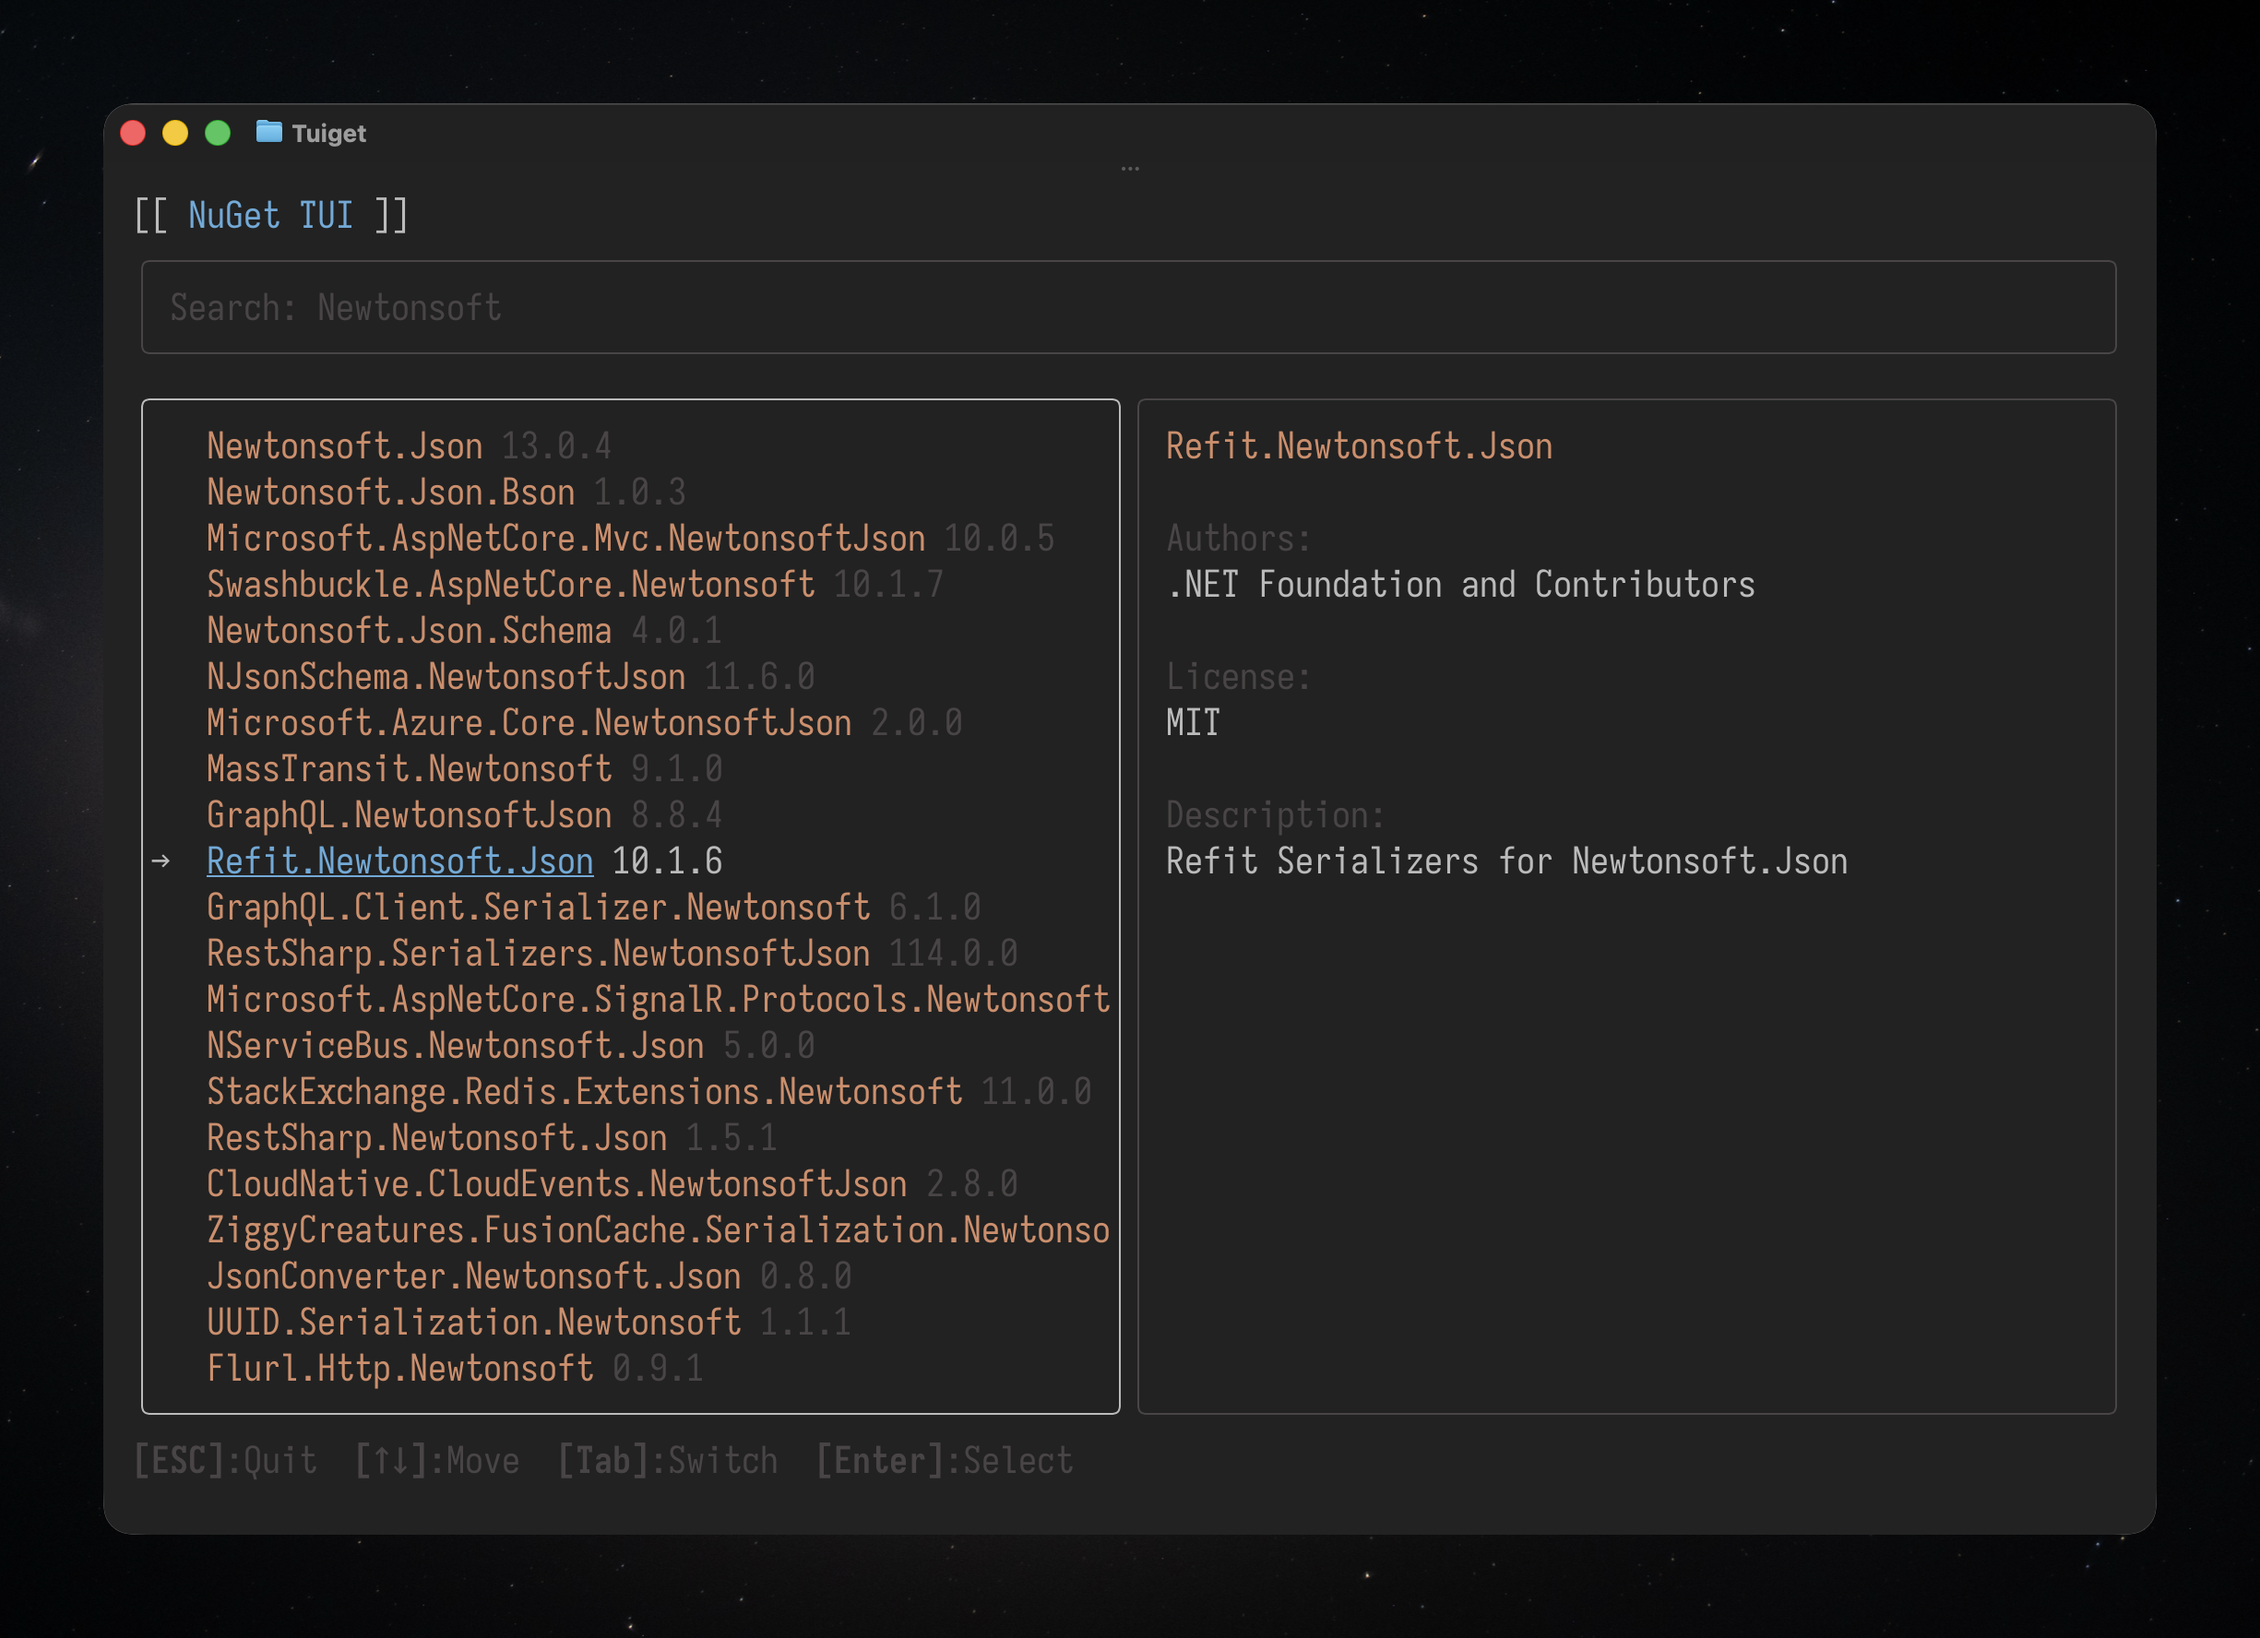
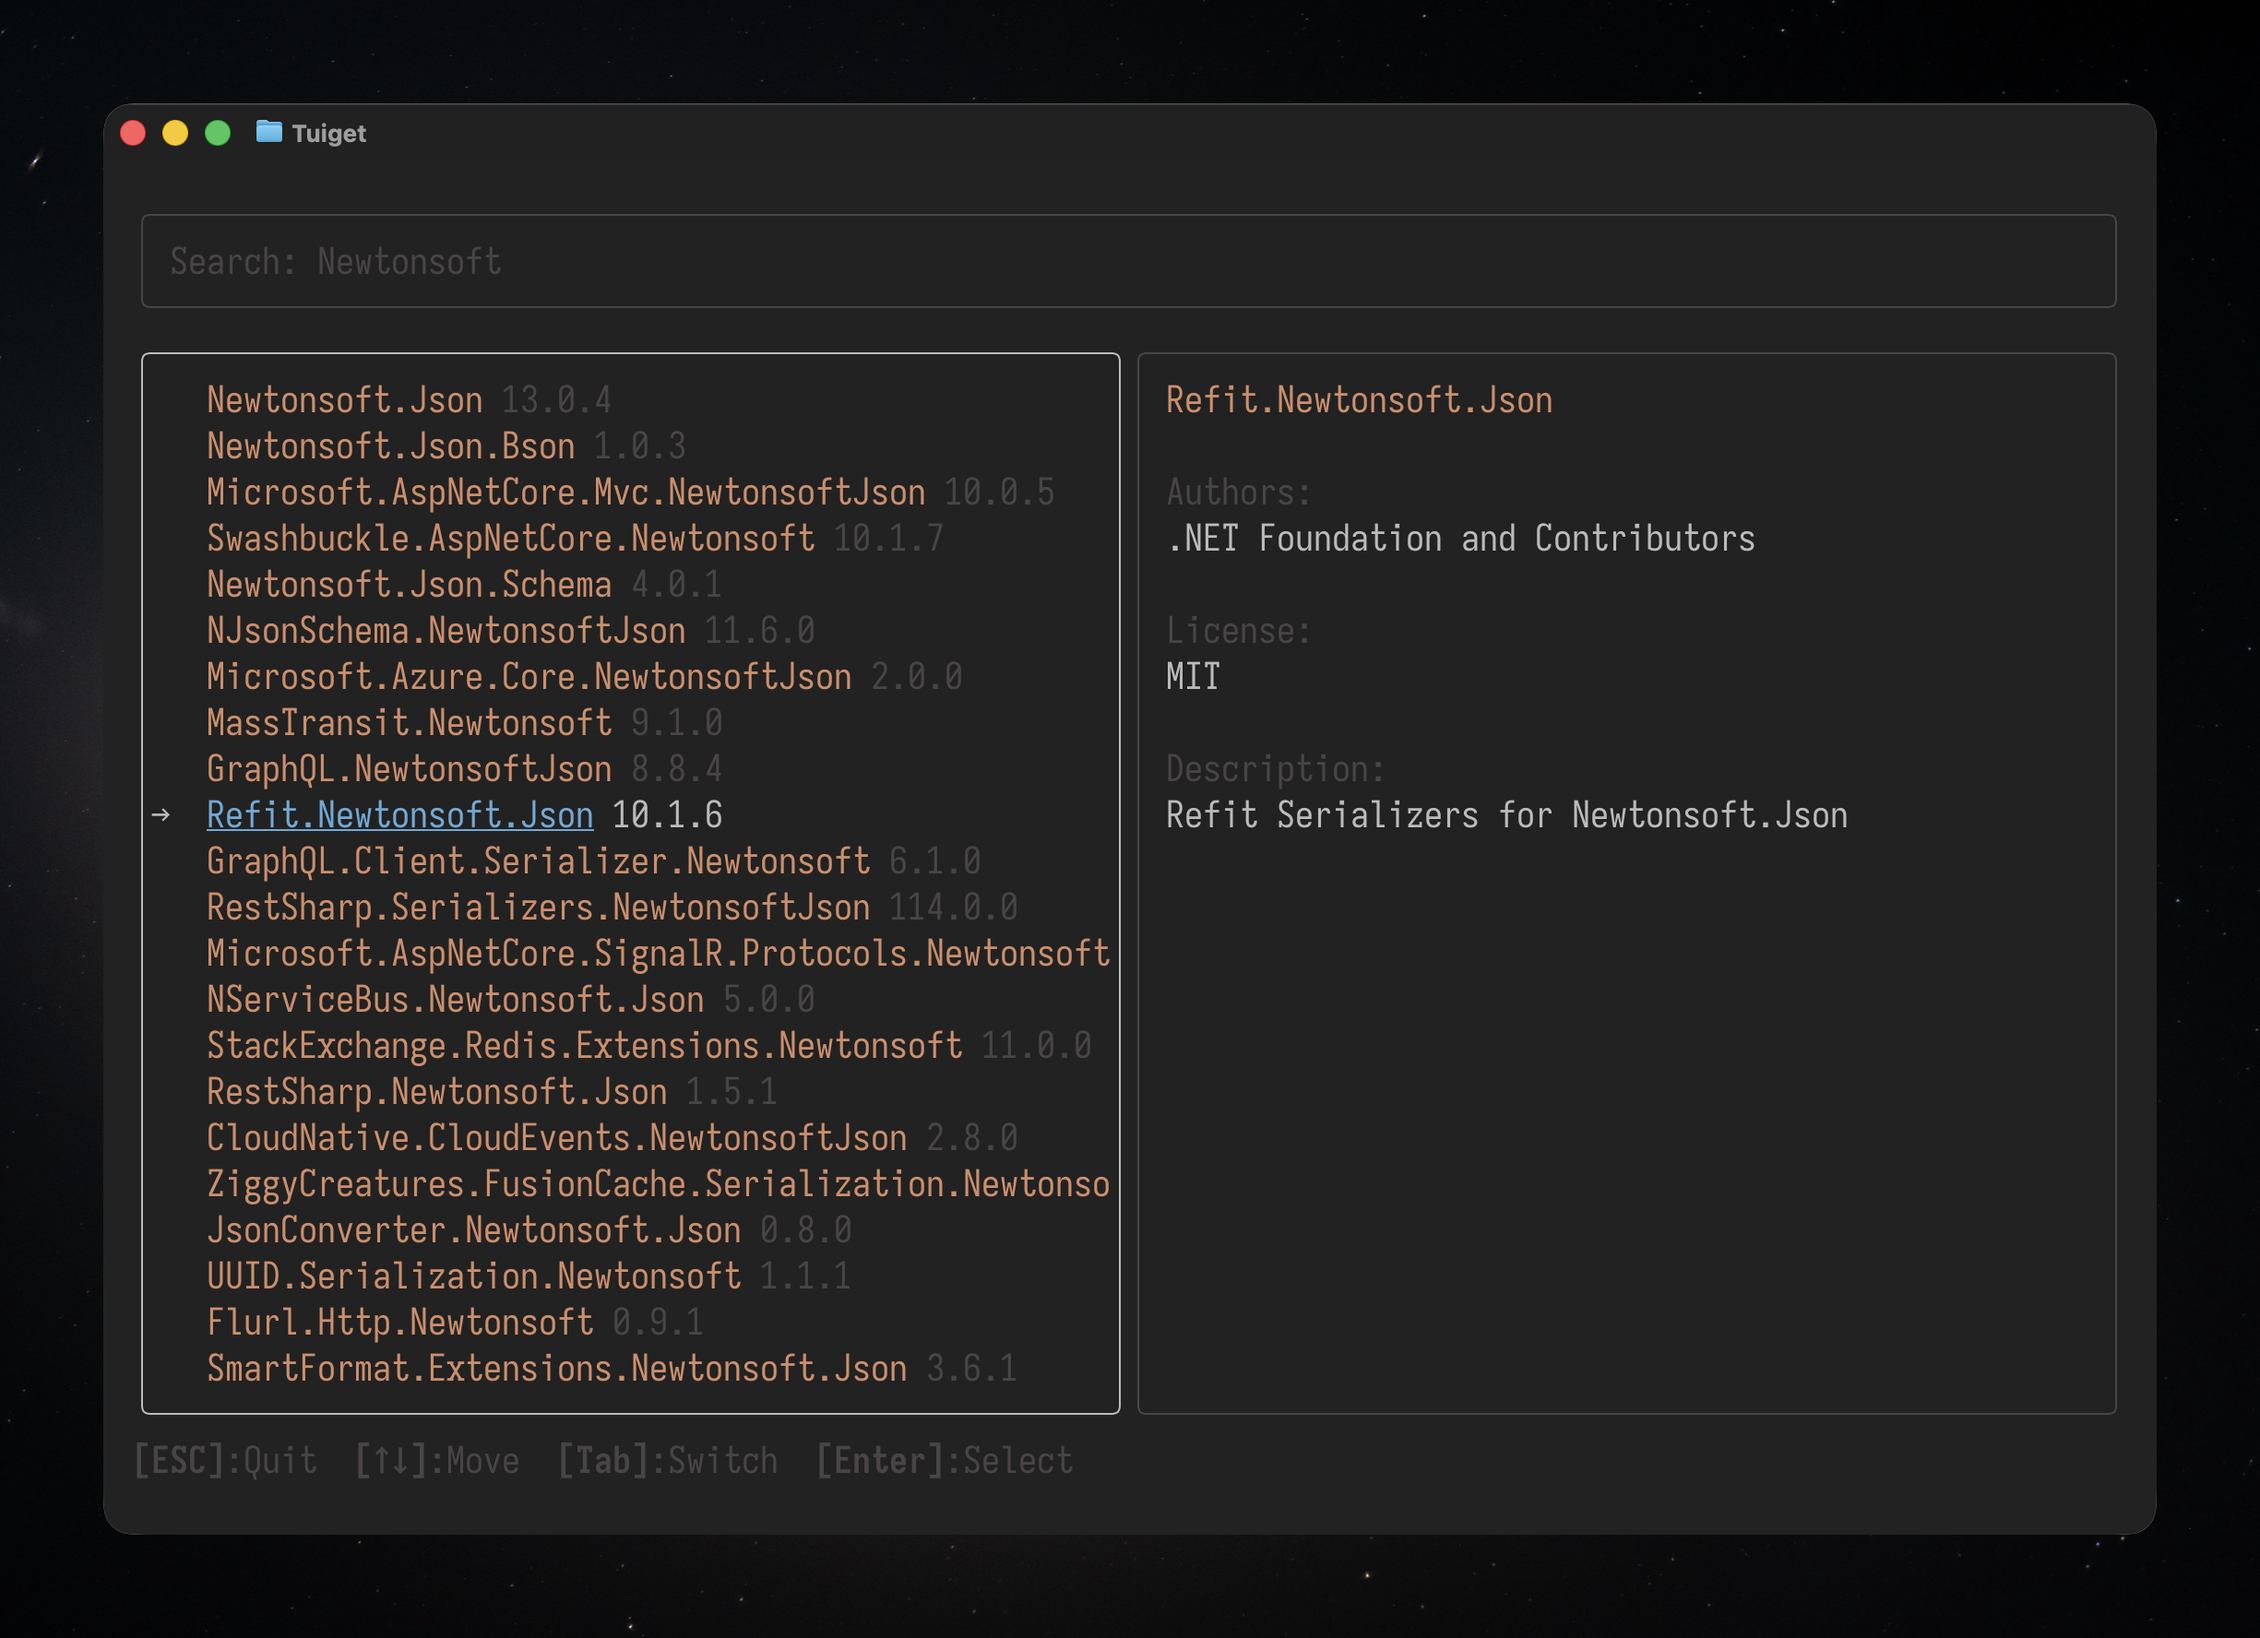
Remove header for now

diff --git a/src/Tuiget/Models/MainModel.cs b/src/Tuiget/Models/MainModel.cs
@@ -5,7 +5,6 @@ namespace Tuiget;
 public sealed class MainModel : TeaModel
 {
     private readonly Layout _layout;
-    private readonly HeaderModel _headerModel;
     private readonly SearchModel _searchModel;
     private readonly ListModel _listModel;
     private readonly InfoModel _infoModel;
@@ -14,7 +13,6 @@ public sealed class MainModel : TeaModel
 
     public MainModel()
     {
-        _headerModel = new HeaderModel();
         _searchModel = new SearchModel();
         _listModel = new ListModel();
         _infoModel = new InfoModel();
@@ -22,7 +20,6 @@ public sealed class MainModel : TeaModel
 
         _layout = new Layout("root")
             .SplitRows(
-                new Layout("header").Size(1),
                 new Layout("search").Size(3),
                 new Layout("middle")
                     .SplitColumns(
@@ -62,7 +59,6 @@ public sealed class MainModel : TeaModel
 
     public override void Render(RenderContext ctx)
     {
-        ctx.Render(_headerModel, _layout.GetArea(ctx, "header"));
         ctx.Render(_searchModel, _layout.GetArea(ctx, "search"));
         ctx.Render(_listModel, _layout.GetArea(ctx, "list"));
         ctx.Render(_infoModel, _layout.GetArea(ctx, "info"));

diff --git a/src/Tuiget/Models/SearchModel.cs b/src/Tuiget/Models/SearchModel.cs
@@ -53,7 +53,7 @@ public sealed class SearchModel : TeaModel
 
         if (_hasFocus)
         {
-            context.SetCursorPosition(new Position(10 + _query.Length, 2));
+            context.SetCursorPosition(new Position(10 + _query.Length, 1));
         }
     }
 }
